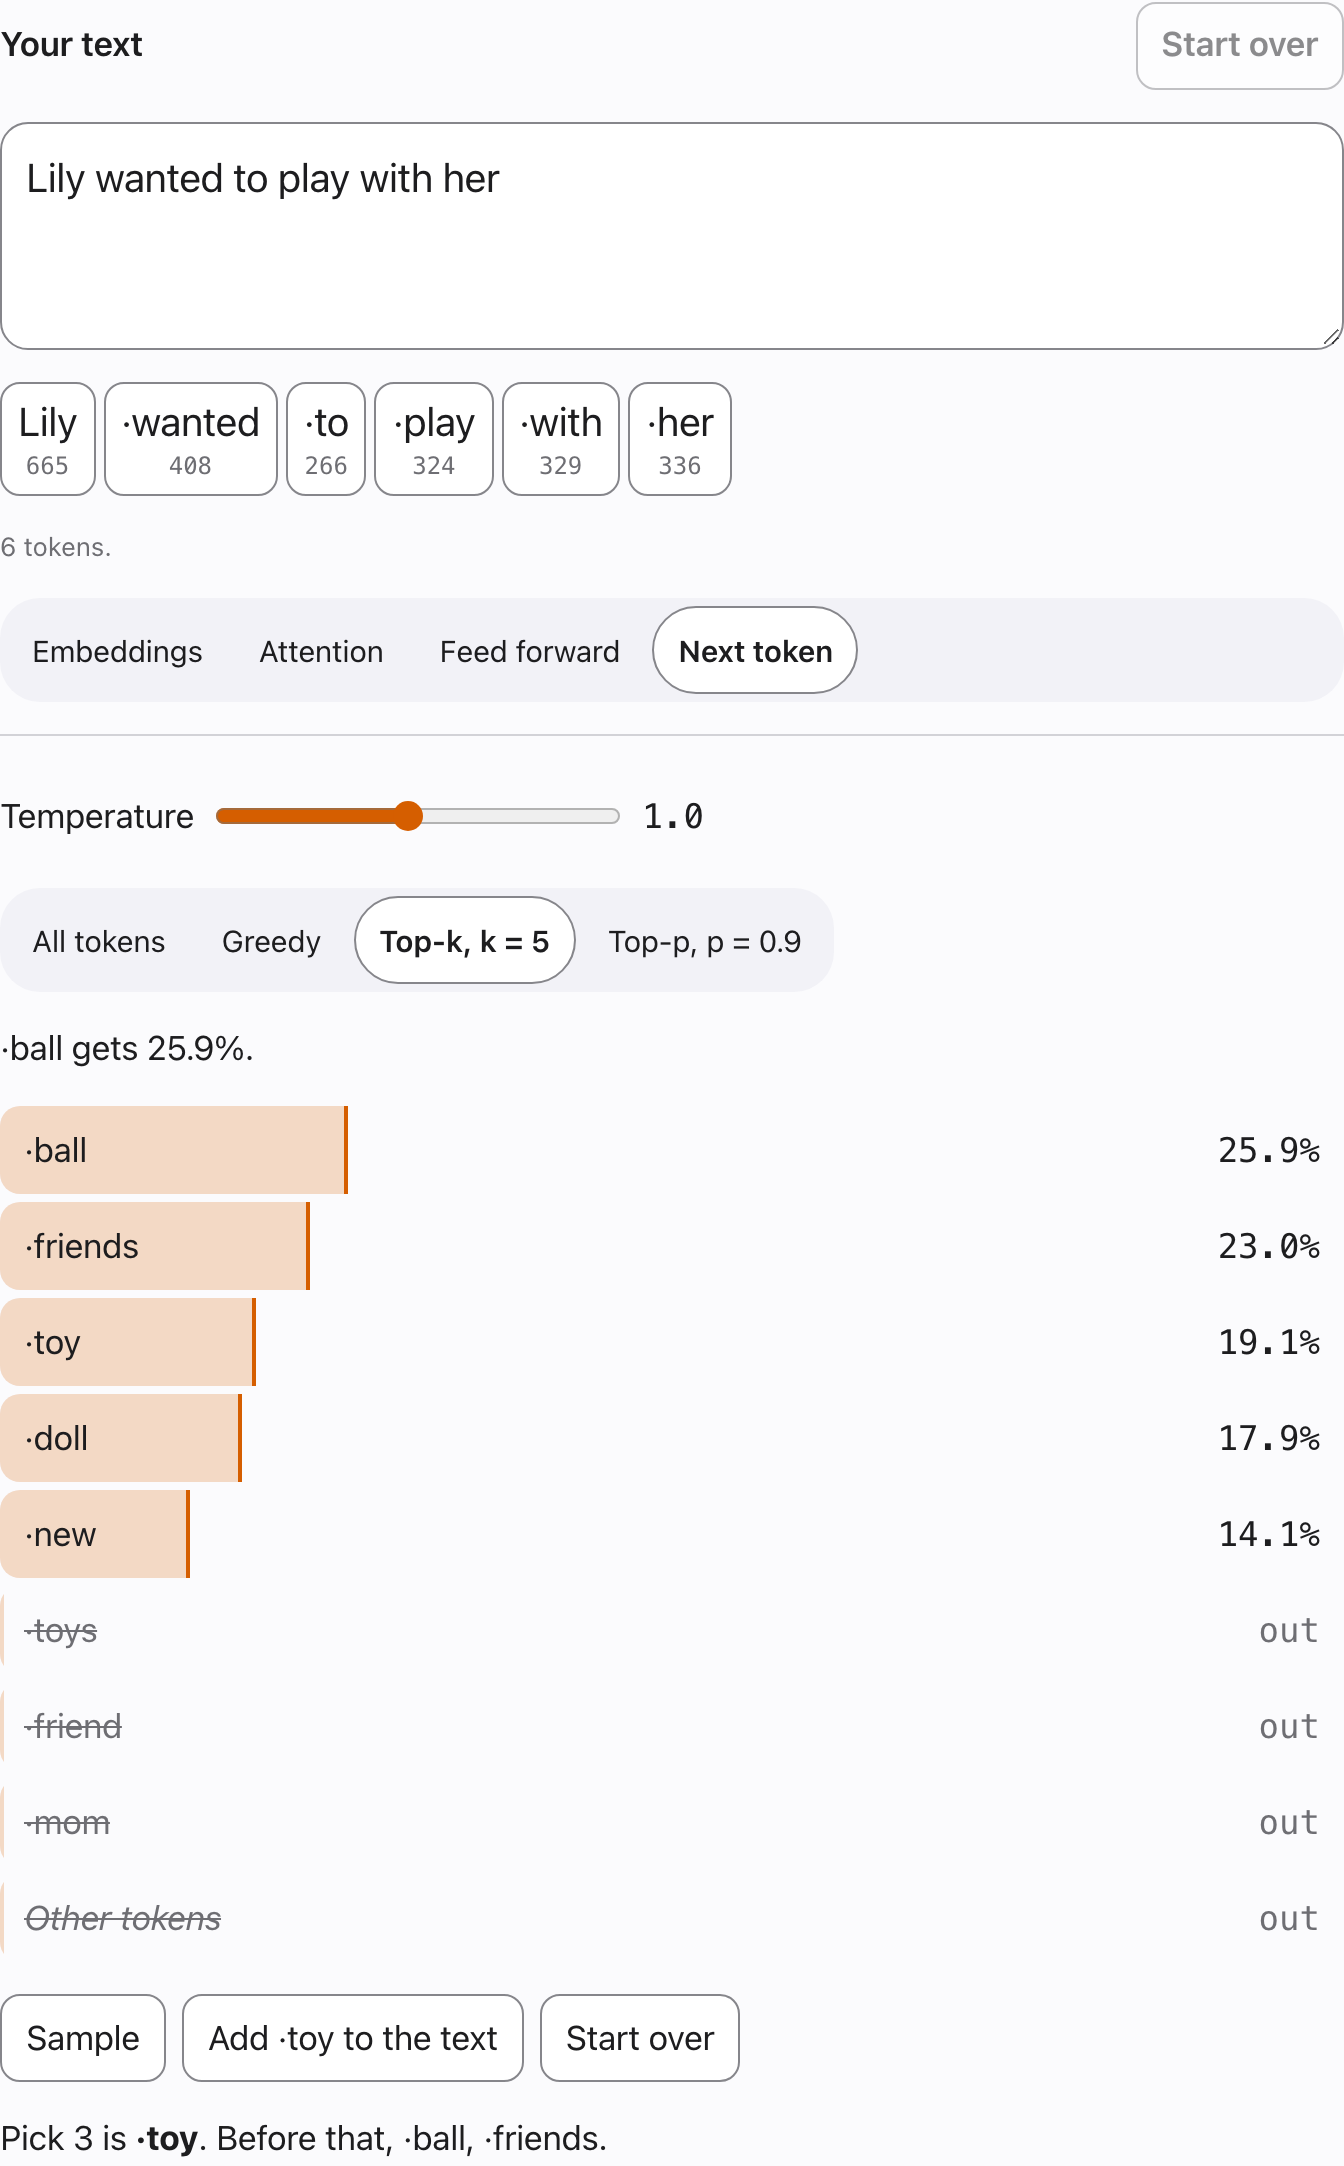
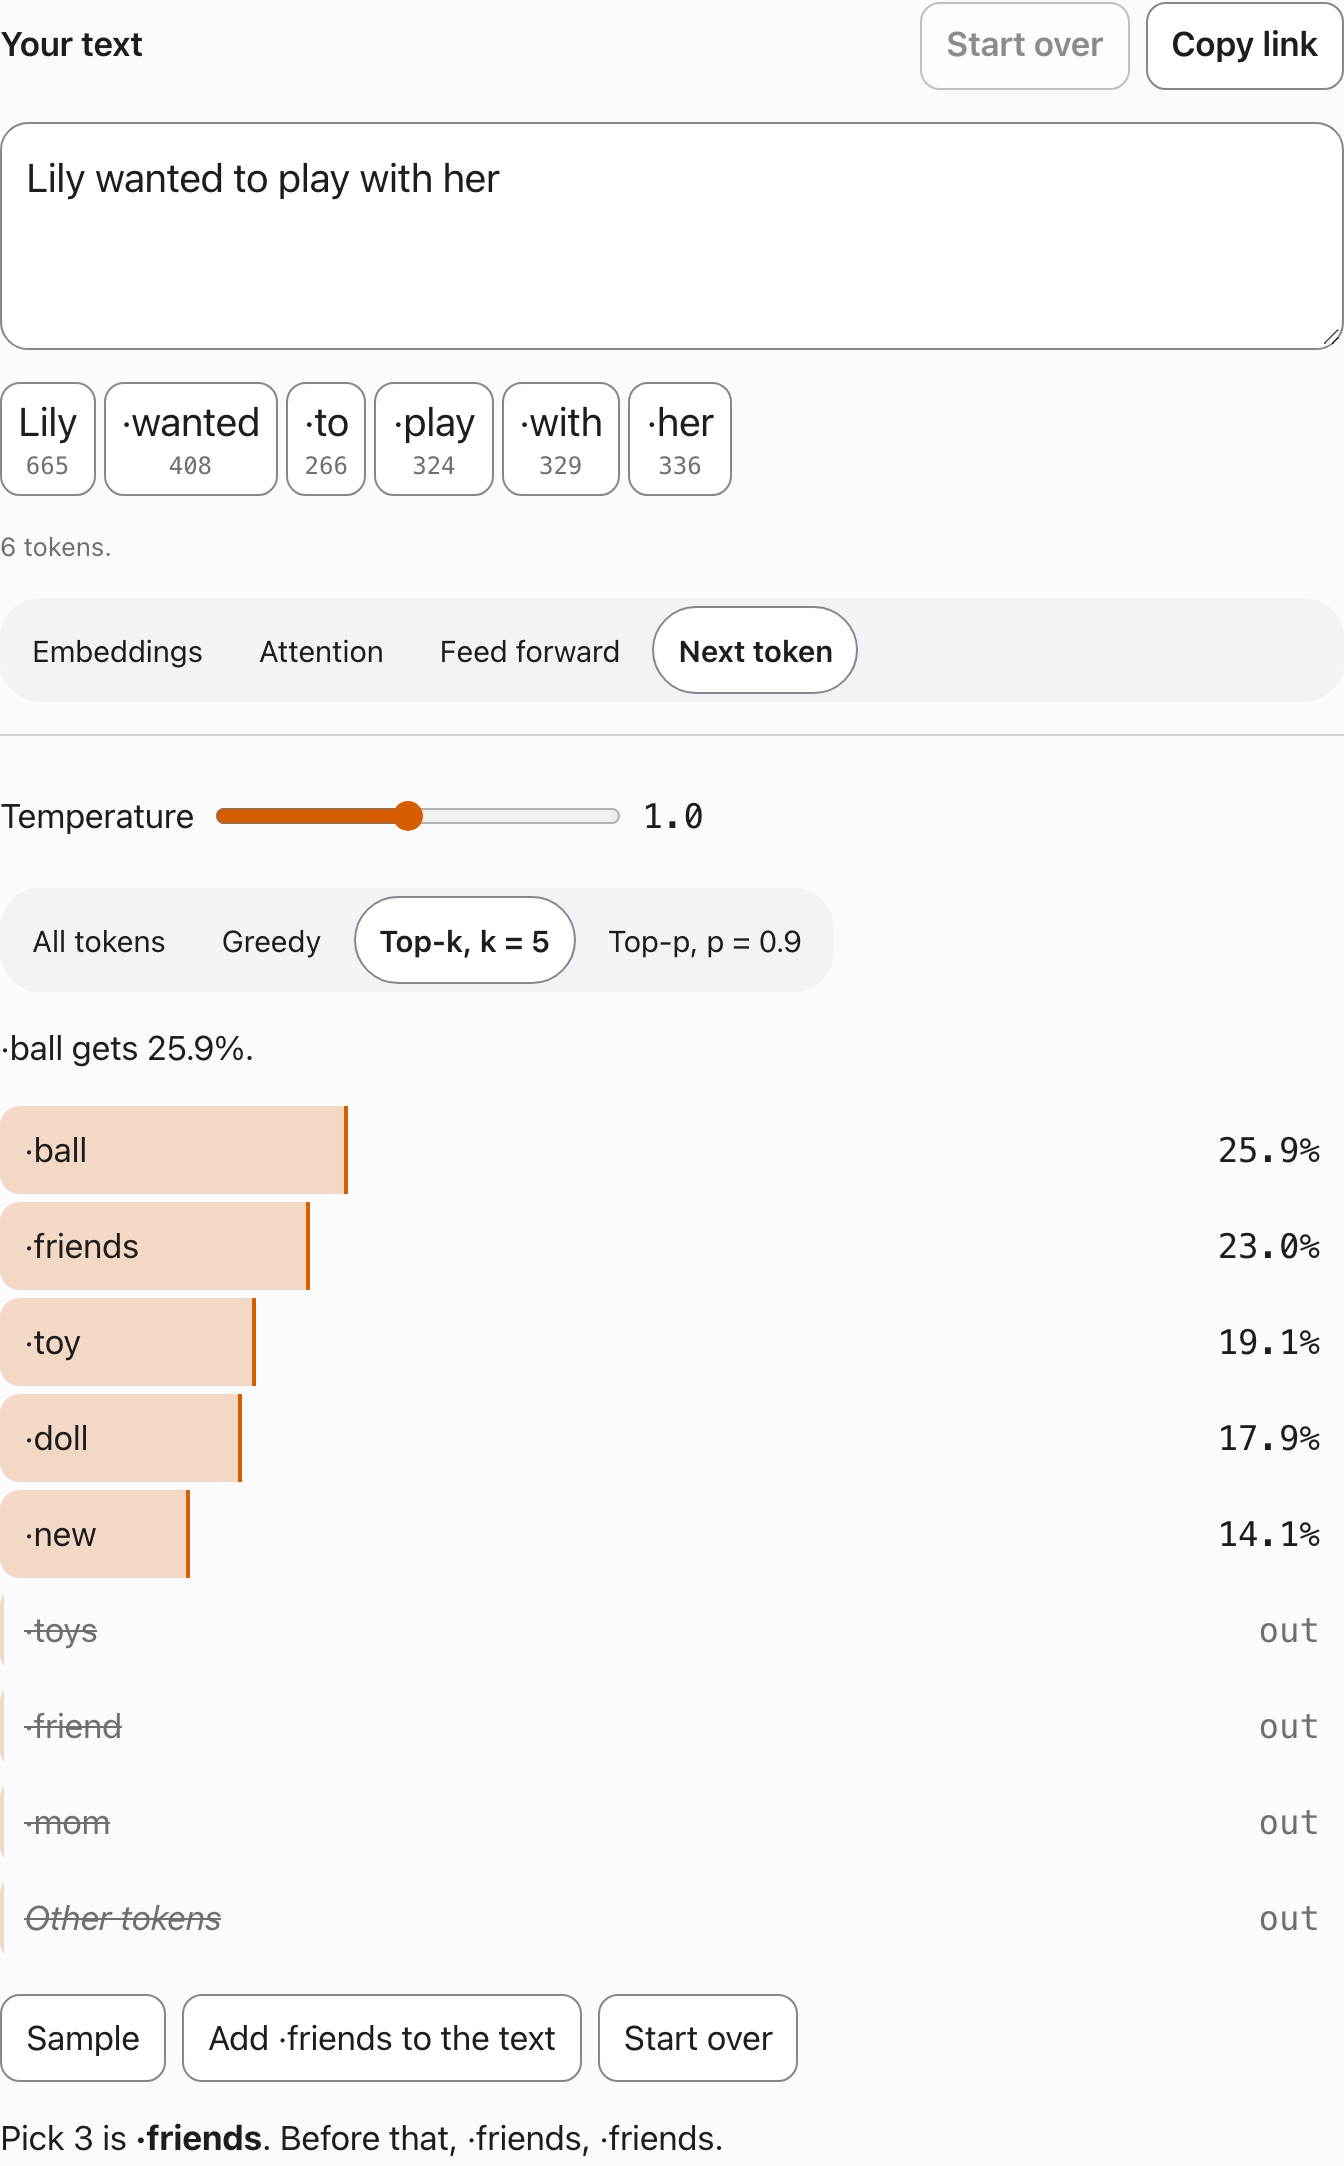
docs: walk through the site in the order of its ways in, with a screenshot for each, and drop the general screenshots

Changed region(s): [[0.125, 0.928, 0.5625, 1.0], [0.6875, 0.0, 1.0, 0.0309]]

diff --git a/README.md b/README.md
@@ -2,9 +2,7 @@
 
 A friendly, visual guide to how language models like GPT work.
 
-You type a sentence and follow it through a real transformer, one step at a time, until it guesses the next word. Every number on screen comes from a real model, and you can always see the math behind it.
-
-![The home page, where a real model guesses the next word of a sentence](docs/images/home-desktop-light.png)
+You follow a sentence through a real transformer, one step at a time, until it guesses the next word. Every number on screen comes from a real model, and you can always see the math behind it.
 
 ## Who it's for
 
@@ -16,77 +14,63 @@ This is a learning resource. It is the guide we wish we had when we were first l
 
 ## How to use it
 
-**1. Watch it guess.** The home page shows a real model guessing the next word. Tap any guess to pick it yourself, and the model guesses again from there.
+### Watch it guess
 
-<img src="docs/images/use-1-pick.png" alt="The home demo after picking 'big'. New guesses appear below the sentence." width="480">
+The home page shows a real model writing a sentence, one guess at a time. Tap any guess to pick it yourself. The model keeps going until the sentence ends.
 
-**2. Pick how deep to go.** Each chapter starts as a story. Switch to Numbers, Formula or Code at any time.
+<img src="docs/images/use-1-pick.png" alt="The home demo after finishing the sentence 'Once upon a time, there was a little boy named Tim.'" width="480">
+
+### Learn from scratch
+
+Five short chapters follow one sentence through the model. Each step starts as a story. Switch to Numbers, Formula or Code at any time.
 
 <img src="docs/images/use-2-depth.png" alt="A chapter with the Story, Numbers, Formula and Code switch" width="600">
 
-**3. Play with the figures.** Every step has something to touch. Pick a guess and see the exact chances.
+Every step has a figure to touch. Pick a guess and see the exact chances, or add one guess at a time and watch a sentence grow.
 
 <img src="docs/images/use-3-next-word.png" alt="A figure showing the top five next guesses with exact percentages" width="600">
 
-**4. See a sentence grow.** Add one guess at a time. A long answer is just many single guesses.
-
 <img src="docs/images/use-4-loop.png" alt="A sentence that grew by three guesses, with a count of guesses made" width="600">
 
-**5. Look inside.** Tap each part of the model to see what it does.
+### See the whole model
 
-<img src="docs/images/use-5-pipeline.png" alt="The model's stages from tokens to output, with Block 1 explained" width="600">
-
-**6. Try your own text.** The playground runs the model on anything you type. Sample the next token and add it to your text.
-
-<img src="docs/images/use-6-playground.png" alt="The playground with a typed sentence, its tokens, and the next token chances with top-k on" width="480">
-
-**7. See what each token looks at.** Pick a layer and a head to see the attention weights.
-
-<img src="docs/images/use-7-attention.png" alt="An attention grid where 'her' looks most at 'Lily'" width="600">
-
-**8. Review it all on one page.** The quick review has the shapes, formula and code for every part.
-
-<img src="docs/images/use-8-review.png" alt="The quick review page with the model's sizes and the first card" width="600">
-
-**9. Read about each part.** The map from the paper links every box to a short article with its sizes, formula and a few lines of PyTorch. The code runs on our real model and prints the same numbers you see on the page.
+The diagram from the paper, Figure 1 of "Attention Is All You Need", redrawn so you can tap every box. Each part has a short article with its sizes, the formula and a few lines of PyTorch. The code runs on our real model and prints the same numbers you see on the page.
 
 <img src="docs/images/use-9-article.png" alt="The article for masked attention, with sizes, the formula, PyTorch code and what it prints" width="600">
 
+### Review it all on one page
+
+The quick review has the shapes, formula and code for every part, in the order a sentence passes through them.
+
+<img src="docs/images/use-8-review.png" alt="The quick review page with the model's sizes and the first card" width="600">
+
+### Try your own text
+
+The playground runs the model on anything you type. Look at each stage, sample the next token and add it to your text. Copy link shares what you typed.
+
+<img src="docs/images/use-6-playground.png" alt="The playground with a typed sentence, its tokens, and the next token chances with top-k on" width="480">
+
+Pick a layer and a head to see what each token looks at, and the scores behind those weights.
+
+<img src="docs/images/use-7-attention.png" alt="An attention grid where 'her' looks most at 'Lily'" width="600">
+
+### Find your way
+
+Every page is one step away. The Learn menu in the header lists the chapters, the whole model and the quick review. On a phone, it all sits behind one Menu button.
+
+<img src="docs/images/use-10-menu.png" alt="The Learn menu open in the header, listing the chapters, the whole model and the quick review" width="480">
+
 Every figure has a Start over button, and everything works with a keyboard and a screen reader.
 
-## What you can do
+## What's inside
 
-- **Pick your depth.** Every step can be read four ways, as a story, as worked numbers, as the formula or as code. Switch at any time.
-- **Look inside a real model.** A tiny GPT-2 style model, trained on short children's stories, runs right in your browser. You can inspect every number it produces.
-- **Start small.** A toy example is small enough to work out by hand before you meet the real thing.
-- **Check the sources.** The references page lists every paper with a pinned link, and simplifications are labeled as ours.
-- **Use it anywhere.** It runs in the browser with no account, no server and no tracking. Install it and it works offline too.
+- **Five chapters.** What a language model does, tokens, embeddings and position, attention, and prediction.
+- **A tiny real model.** A GPT-2 style model, trained on short children's stories, runs right in your browser. You can inspect every number it produces.
+- **Toy examples.** Small enough to work out by hand before you meet the real thing.
+- **Sources you can check.** The references page lists every paper with a pinned link, and points to what to read next about today's models. Simplifications are labeled as ours.
+- **Works anywhere.** It runs in the browser with no account, no server and no tracking. Install it and it works offline too.
 
-## What's ready and what's next
-
-**Ready now**
-
-- Five chapters, from what a language model does to how it picks the next word. They cover tokens, embeddings and position, attention, and prediction.
-- A map of the whole model, with a short article for each part. Each article has sizes, the formula and PyTorch code you can run.
-- The playground, where you type your own text and look inside the model.
-- A quick review page with every formula in one place.
-- The glossary and the references page.
-- Light and dark mode, phone and desktop layouts, and offline use.
-- The tiny trained model and the engine that runs it.
-
-**Later**
-
-- A chapter on the full transformer block.
-- How training works.
-- A bigger GPT-2 sized model.
-
-## Screenshots
-
-![A chapter page in the Story view](docs/images/chapter-story-desktop-light.png)
-
-![The same chapter in dark mode, switched to the Formula view](docs/images/chapter-formula-desktop-dark.png)
-
-<img src="docs/images/chapter-story-phone-light.png" alt="A chapter page on a phone" width="300">
+Coming later: a chapter on the full transformer block, how training works, and a bigger GPT-2 sized model.
 
 ## How to run
 
